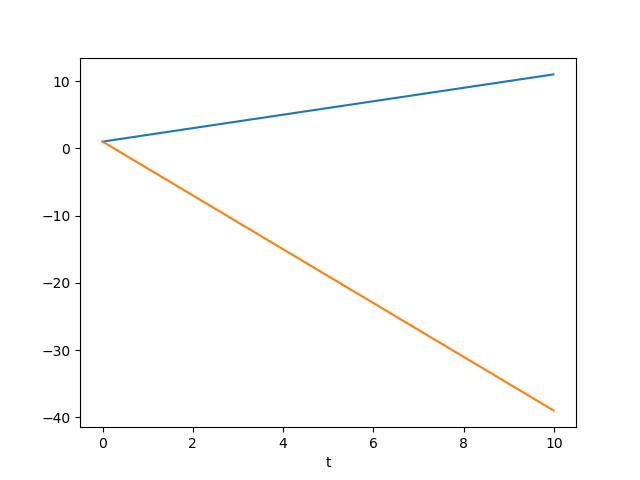
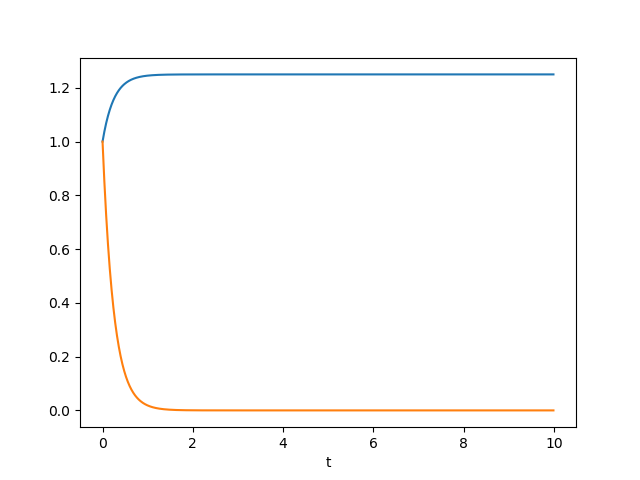
Commit

diff --git a/Ad-Dif.py b/Ad-Dif.py
@@ -8,7 +8,7 @@ c = 1.0
 def AdDif(r):
 	u = r[0]
 	y = r[1]
-	fu = phi
+	fu = y
 	fy = -c*fu
 	return np.array([fu,k*k*fy],float)
 phi = 1.0
@@ -20,7 +20,7 @@ h = (b-a)/N
 tpoints = arange(a,b,h)
 xpoints = []
 ypoints = []
-r = np.array([1.0,1.0],float)
+r = np.array([phi,1.0],float)
 for t in tpoints:
 	xpoints.append(r[0])
 	ypoints.append(r[1])
